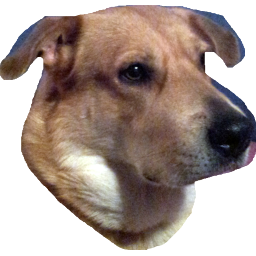
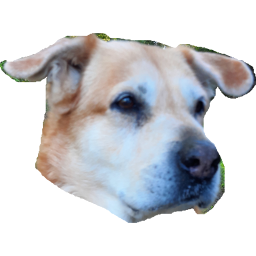
Hyvin toimii

diff --git a/js/main.js b/js/main.js
@@ -1,62 +1,227 @@
-// Number of different animals
-const animalNames = ["piki", "nita"];
-const animals_n = 10;
+// Global constants
+const animalNames = ["piki", "nita", "pentu", "ostikka"];
+const animals_n = 50; // How many of each animal type
+const axes = ["x", "y", "z", "r"];
+const imageWidth = 256;
+const maxZ = 60;
+const minZ = 0.4;  
+const zoom = 3;
+const fps = 60;
+const scrollFps = 10;
+const referenceSize = 300;
+//const scrollText = ". l . . .......                                      Ravel and Chain Chomp present at Skrolli Party 2026                                      Ravel and Chain Chomp present at Skrolli Party 2026                                      Ravel and Chain Chomp present at Skrolli Party 2026                                      Ravel and Chain Chomp present at Skrolli Party 2026                                      Ravel and Chain Chomp present at Skrolli Party 2026";
+let scrollText = "                          RAVEL AND CHAIN CHOMP PRESENT AT SKROLLI PARTY 2026 ANIMANIA                                ";
+const scrollTextSpaces = " _~.-^=";
+const scrollTextMovement = 50;
+const scrollTextY = 0;
+const scrollTextYbase = 20;
+const scrollTextVisible = 30;
+const outOfScreen = 150;
+const partLength = 600;
+const scrollTextColors = ["red", "green", "lightblue", "white", "yellow", "lightpurple"];
+
+// Global variables
 let animals = {};
-let t = 0;
-let animalSize = 256;
+let scrollTextPosition = 0;
+let frame = 0;
+let part = 1;
+let demoLength = 6;
+let screenInterval
+let scrolltextInterval
 
-
-function getAnimalCoords() {
-    var z = MAX_Z - (letter_i - 1) * STEP_Z;
-	var x = 20 + ZOOM * BASE_X / z;
-	var y = ZOOM * BASE_Y / z;
-	var font_size = ZOOM * BASE_FONT_SIZE / z;
+// Translate animal coordinates into (relative) screen doordinates
+function translateCoords(animalId) {
+    const x = animals[animalId]["x"];
+    const y = animals[animalId]["y"];
+    const z = animals[animalId]["z"];
+    return [zoom * x / z + 50, zoom * y / z + 50, zoom * imageWidth / z];
 }
 
+// Button has been clicked, start demo
 function startDemo() {
+    console.log("Starting demo...");
+    // Hide the button and initialize
     $("#start").hide();
+    initAnimals();
+    $("#screen").html(getAnimalsHtml());
+    initPart();
+
+    // Set update intervals
+    scrolltextInterval = setInterval(updateScrolltext, Math.floor(1000 / scrollFps));
+    screenInterval = setInterval(update, Math.floor(1000 / fps));
+
+    // Everything is ready, show the main screen
     $("#main").show();
-    createAnimals();
     console.log("Demo has been started");
 }
 
+// Update scrolltext and move it
 function updateScrolltext() {
-    $("#scrolltext").text(t);
-    t++;
-}
-
-function updateScreen() {
-
-}
-
-function resizeAnimals() {
-    animals.forEach((animal) => {
-        for (let animal_i = 0; animal_i < animals_n; animal_i++)
-            $(`#${animal}${animal_i}`).width(animalSize).height(animalSize);
-    });
-
-    animalSize--;
-    if (animalSize == 0)
-        animalSize = 256;
+    const displayText = scrollText.substring(scrollTextPosition, scrollTextPosition + scrollTextVisible);
+    $("#scrolltext p").text(displayText);
+    scrollTextPosition++;
+    if (scrollTextPosition > scrollText.length - scrollTextVisible) 
+        scrollTextPosition = 0;
 }
 
 // Produce enough animals of each type
-function getAnimalsHtml(animal) {
+function getAnimalsHtml() {
     let animalsHtml = "";
-    for (let animal_i = 0; animal_i < animals_n; animal_i++) {
-        const animalX = Math.floor(Math.random() * 700);
-        const animalY = Math.floor(Math.random() * 700);
-        animalsHtml += `<img id="${animal}${animal_i}" class="animal" src="img/${animal}.png" style="left: ${animalX}px; top: ${animalY}px" alt="" />`;
-    }
+    Object.keys(animals).forEach((animalId) => {
+        const animalName = animals[animalId]["name"];
+        animalsHtml += `<img id="${animalId}" class="animal" src="img/${animalName}.png" alt="" />`;
+    });
     return animalsHtml;
+}
+
+// Initialize new part
+function initPart() {
+    console.log(`Initializing part ${part}...`);
+    // Change background and scrolltext space
+    $("#screen").css({ "background-image": `url(bgimg/${part}.jpg)` });
+    scrollText = scrollText.replaceAll(scrollTextSpaces[part - 1], scrollTextSpaces[part]);
+    $("#scrolltext p").css({ color: scrollTextColors[part] });
+
+    // Change animal movements etc.
+    Object.keys(animals).forEach((animalId) => {
+
+        if (part == 1) {
+            animals[animalId]["x"] = rand(-referenceSize, referenceSize);
+            animals[animalId]["y"] = rand(-referenceSize, referenceSize);
+            animals[animalId]["z"] = rand(minZ, maxZ);
+            animals[animalId]["dz"] = -0.3;
+        } else if (part == 2) {
+            const animalStep = (maxZ - minZ) / animalNames.length;
+            const animal_i = animals[animalId]["index"] + 1;
+            const imgindex = animals[animalId]["imgindex"] % (animals_n / 4);
+            const animalsPerRing = animals_n / 4;
+            animals[animalId]["x"] = 0.3 * referenceSize * Math.sin(imgindex * 2 * Math.PI / animalsPerRing);
+            animals[animalId]["y"] = 0.3 * referenceSize * -Math.cos(imgindex * 2 * Math.PI / animalsPerRing);
+            animals[animalId]["z"] = minZ + animalStep * (animal_i + Math.floor(imgindex / 4));
+            animals[animalId]["dz"] = -0.5;
+            animals[animalId]["dr"] = -1;
+        } else if (part == 3) {
+            const animalStep = (maxZ - minZ) / animalNames.length;
+            const animal_i = animals[animalId]["index"] + 1;
+            const imgindex = animals[animalId]["imgindex"] % (animals_n / 4);
+            const animalsPerRing = animals_n / 4;
+            animals[animalId]["x"] = 0.1 * referenceSize * Math.sin(imgindex * 2 * Math.PI / animalsPerRing);
+            animals[animalId]["y"] = 0.1 * referenceSize * -Math.cos(imgindex * 2 * Math.PI / animalsPerRing);
+            animals[animalId]["z"] = minZ + animalStep * (animal_i + Math.floor(imgindex / 4));
+            animals[animalId]["dz"] = -0.5;
+            animals[animalId]["dr"] = 5;
+        } else if (part == 6) {
+            animals[animalId]["dx"] = rand(-10, 10);
+            animals[animalId]["dy"] = rand(-10, 10);
+            animals[animalId]["dz"] = 0.1;
+            animals[animalId]["dr"] = rand(-30, 30);
+        }
+
+    });
+}
+
+// Initialize animal coordinates
+function initAnimals() {
+    // Create axes for each animal
+    let currentAnimal = 0;
+    animalNames.forEach((animalName) => {
+        for (let animal_i = 0; animal_i < animals_n; animal_i++) {
+            const animalId = `${animalName}${animal_i}`;
+            animals[animalId] = {
+                name: animalName,
+                index: currentAnimal,
+                imgindex: animal_i,
+                x: 0, y: 0, z: 0, dx: 0, dy: 0, dz: -0, r: 0, dr: 0
+            };
+        }
+        currentAnimal++;
+    });
+}
+
+// Return a random value between min and max
+function rand(min, max) {
+    return min + (max - min) * Math.random();
+}
+
+// Add deltas to each axis
+function moveAnimal(animalId) {
+    axes.forEach((axis) => {
+        animals[animalId][axis] += animals[animalId][`d${axis}`];
+    });
+    if (animals[animalId]["z"] < minZ)
+        wrapAnimal(animalId);
+    else if (animals[animalId]["z"] > maxZ)
+        wrapAnimalReverse(animalId);
+}
+
+// Move animals on screen
+function updateAnimalPosition(animalId) {
+    let [x, y, size] = translateCoords(animalId);
+    const opacity = (maxZ - animals[animalId]["z"]) / maxZ;
+    $(`#${animalId}`).css({
+        left:      `${x}%`,
+        top:       `${y}%`,
+        width:     `${size}px`,
+        transform: `rotate(${animals[animalId]["r"]}deg`,
+        opacity:   `${opacity}`
+    });
+    // If animal is too close and out of screen, wrap it
+    if (x < -outOfScreen || x > outOfScreen || y < -outOfScreen || y > outOfScreen)
+        wrapAnimal(animalId);
+}
+
+// Update animal coordinates based on deltas
+function update() {
+
+    // Update and move animals
+    Object.keys(animals).forEach((animalId) => {
+        moveAnimal(animalId);
+        updateAnimalPosition(animalId);
+    });
+
+    // Also move scrolltext here
+    const scrollTextY = scrollTextYbase + scrollTextMovement * Math.sin(frame / 10);
+    $("#scrolltext").css("top", `${scrollTextY}px`);
+    frame++;
+
+    // Handle parts and end of demo
+    if (frame % 600 == 0) {
+        part++;
+        part > demoLength ? endDemo() : initPart();
+    }
+}
+
+// End demo and clean up
+function endDemo() {
+    console.log("Ending demo...")
+    clearInterval(screenInterval);
+    clearInterval(scrolltextInterval);
+    $("#screen").hide();
+    $("#scrolltext").hide();
+}
+
+// Randomize animal's X and Y
+function animalRandomXY(animalId) {
+    animals[animalId]["x"] = rand(-referenceSize, referenceSize);
+    animals[animalId]["y"] = rand(-referenceSize, referenceSize);
+}
+// Wrap animal back to background and randomize position
+function wrapAnimal(animalId) {
+    if (part == 1)
+        animalRandomXY(animalId);
+    animals[animalId]["z"] = maxZ;
+}
+function wrapAnimalReverse(animalId) {
+    if (part == 1)
+        animalRandomXY(animalId);
+    animals[animalId]["z"] = minZ;
 }
 
 // Create animals when demo starts
 function createAnimals() {
     console.log("Creating animals...");
-    let animalsHtml = "";
-    animals.forEach((animalNames) => { animalsHtml += getAnimalsHtml(animal); });
-    $("#screen").html(animalsHtml);
+    initAnimals();
+    $("#screen").html(getAnimalsHtml());
     console.log("Animals have been created.");
 }
 
@@ -68,6 +233,4 @@ $(document).ready(function() {
     $("#startdemo").on("click", startDemo);
 
     console.log("Start button activated.");
-    setInterval(updateScrolltext, 1000);
-    setInterval(resizeAnimals, 100);
 });

diff --git a/style.css b/style.css
@@ -1,38 +1,44 @@
-body {
-    background-color: white;
+html, body {
+    margin: 0;
+    width: 100%;
+    height: 100%;
+	overflow: hidden;
+	background-color: black;
 }
 
 #start {
+	position: fixed;
+	top: 200px;
     display: none;
-}
-
-#main {
-	color: #a0a0ff;
-    background-color: aliceblue;
-	top: 30px;
-	margin-left: auto;
-	margin-right: auto;
-	width: 1000px;
-	position: relative;
-    display: none;
+	z-index: 100;
 }
 
 #screen {
+	position: fixed;
 	display: block;
-	margin: 0 auto;
-	width: 700px;
-	color: #aaffa0;
-    background-color: darkgreen;
+    width: 100vw;
+    height: 100vh;
+    background-color: black;
 	z-index: 11;
+	background-size: cover;
+    background-position: center;
+    background-repeat: no-repeat;
 }
+
 #scrolltext {
-	position: relative;
-	top: -20px;
-	font-size: 48px;
-	text-shadow: 2px 2px yellow;
+	position: fixed;
+	top: 20px;
+	width: 100vw;
+	font-size: 72px;
+	color: red;
 	font-family: VT323,monospace;
 	font-weight: normal;
-	z-index: 10;
+	z-index: 15;
+}
+
+#scrolltext p {
+	text-align: center;
+	white-space: nowrap;
 }
 
 img.animal {

diff --git a/index.html b/index.html
@@ -17,13 +17,13 @@ by Ravel & Chain Chomp
 </head>
 <body>
 
+<div id="scrolltext">
+  <p>Animania by Ravel & Chain Chomp at Skrolli Party 2026</p>
+</div>
+<div id="screen"></div>
+
 <div id="start">
     <button id="startdemo">Start Animania!</button>
-</div>
-
-<div id="main">
-	<div id="scrolltext">temp</div>
-	<div id="screen">temp</div>
 </div>
 
 </body>
